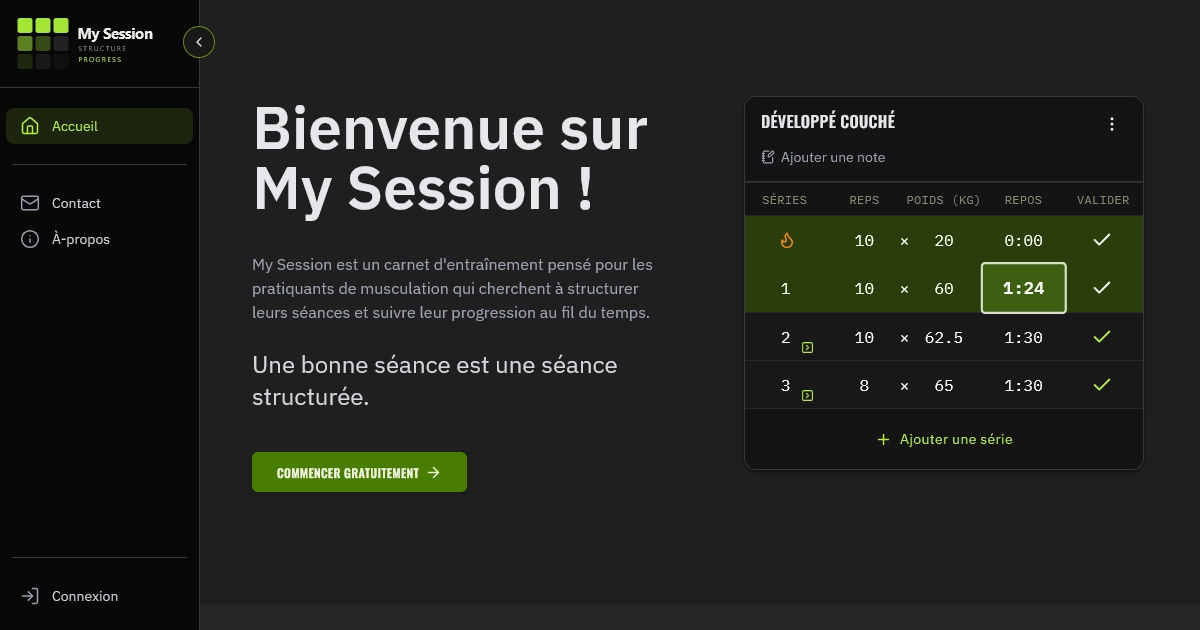
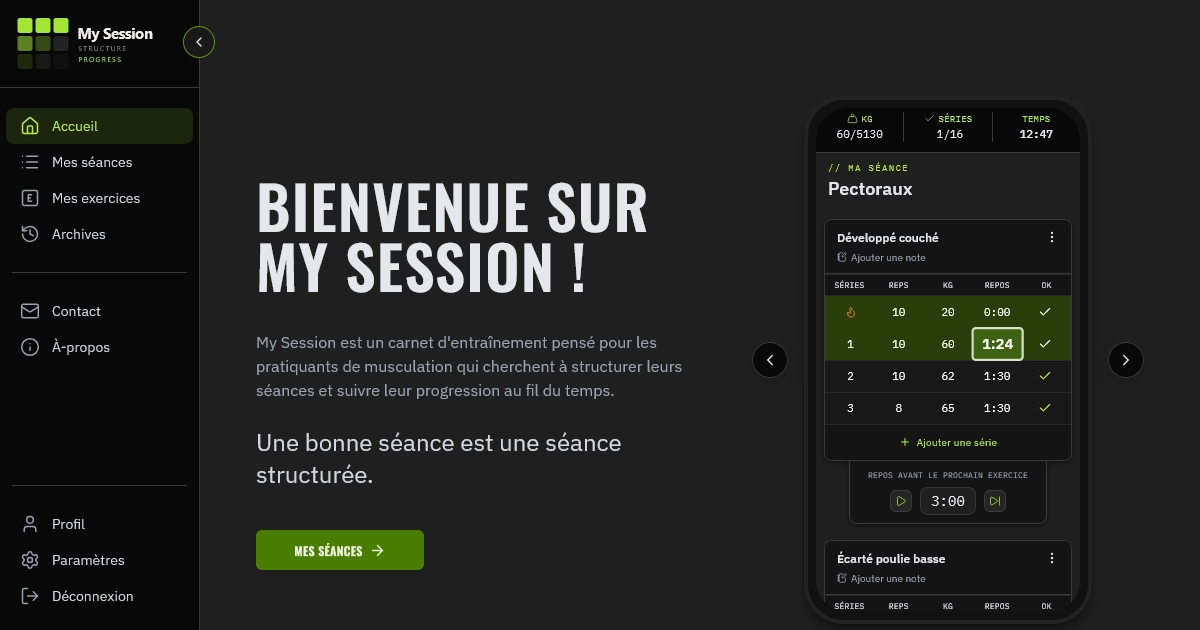
Prefetch nav routes and raise contact form message limit
- Prefetch route chunks on nav/footer links so clicking feels instant
  instead of loading on click
- Raise the contact message limit from 500 to 1000 characters
- Add Next.js to the My Session project tags

diff --git a/src/components/Navbar.jsx b/src/components/Navbar.jsx
@@ -85,7 +85,7 @@ export default function Navbar() {
           <ul className="hidden md:flex items-center">
             {links.map((item) => (
               <li key={item.to} className="pb-1">
-                <NavLink to={item.to} end={item.to === '/'} className={navLinkClass}>
+                <NavLink to={item.to} end={item.to === '/'} prefetch="viewport" className={navLinkClass}>
                   {item.label}
                 </NavLink>
               </li>
@@ -94,6 +94,7 @@ export default function Navbar() {
             <li className="ml-5">
               <NavLink
                 to="/contact"
+                prefetch="viewport"
                 className="inline-flex items-center gap-2 rounded-md bg-sage-600 shadow-soft
                 pl-4 pr-3 py-2 text-sm font-semibold text-white hover:bg-sage-700 focus-visible:outline-none
                 focus-visible:ring-2 focus-visible:ring-sage-400/70"
@@ -134,6 +135,7 @@ export default function Navbar() {
                     <NavLink
                       to={item.to}
                       end={item.to === '/'}
+                      prefetch="viewport"
                       onClick={() => setIsMenuOpen(false)}
                       className={mobileNavLinkClass}
                     >
@@ -145,6 +147,7 @@ export default function Navbar() {
                 <li className="mt-2 border-t border-stone-200 pt-2">
                   <NavLink
                     to="/contact"
+                    prefetch="viewport"
                     onClick={() => setIsMenuOpen(false)}
                     className="flex items-center justify-center gap-2 rounded-md bg-sage-600 shadow-soft
                     px-3 py-2 text-sm font-semibold text-white hover:bg-sage-700"

diff --git a/src/pages/Contact.jsx b/src/pages/Contact.jsx
@@ -307,7 +307,7 @@ export default function Contact() {
                     rows={5}
                     value={formData.message}
                     onChange={handleChange}
-                    maxLength={500}
+                    maxLength={1000}
                     aria-invalid={Boolean(errors.message)}
                     aria-describedby={errors.message ? 'message-error' : undefined}
                     className={`mt-1 w-full rounded-md border bg-white px-3 py-2 text-stone-900
@@ -316,14 +316,14 @@ export default function Contact() {
                       ? 'border-red-500 focus:border-red-500 focus:ring-red-500/30'
                       : 'border-stone-300 focus:border-sage-500 focus:ring-sage-500/30'
                   }`}
-                    placeholder="Message (500 caractères max)"
+                    placeholder="Message (1000 caractères max)"
                   />
                   {errors.message && (
                     <p id="message-error" className="mt-1 text-xs text-red-600 text-center">
                       {errors.message}
                     </p>
                   )}
-                  <div className="flex justify-center mt-1 text-stone-500">{message.length} / 500</div>
+                  <div className="flex justify-center mt-1 text-stone-500">{message.length} / 1000</div>
                 </div>
 
                 <div className="mt-4">

diff --git a/src/components/Footer.jsx b/src/components/Footer.jsx
@@ -100,7 +100,7 @@ export default function Footer() {
             <ul className="mt-4 space-y-2 text-center sm:text-left">
               {navLinks.map((link) => (
                 <li key={link.to}>
-                  <Link to={link.to} className="text-stone-300 hover:text-white">
+                  <Link to={link.to} prefetch="viewport" className="text-stone-300 hover:text-white">
                     {link.label}
                   </Link>
                 </li>
@@ -135,7 +135,7 @@ export default function Footer() {
           <div className="flex flex-wrap items-center justify-center gap-x-10 gap-y-2 text-xs text-stone-500 sm:justify-start">
             <span>2026 - Michaël Jongeau, Développeur Web Freelance</span>
             <span>SIRET : 99458742600010</span>
-            <Link to="/mentions-legales" className="hover:text-white underline underline-offset-2">
+            <Link to="/mentions-legales" prefetch="viewport" className="hover:text-white underline underline-offset-2">
               Mentions légales &amp; Confidentialité
             </Link>
           </div>
